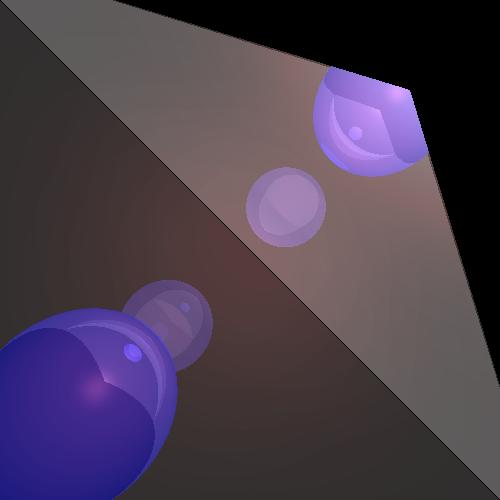
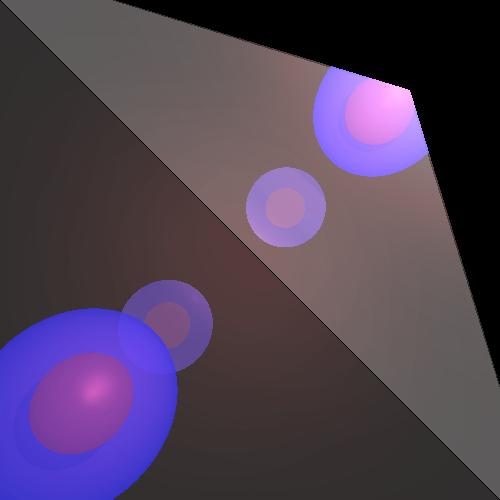
finaly rec work!

Changed region(s): [[0.0, 0.54, 0.45, 1.0], [0.63, 0.12, 0.87, 0.36], [0.48, 0.33, 0.66, 0.51]]

diff --git a/src/renderer/Render.java b/src/renderer/Render.java
@@ -257,7 +257,7 @@ public class Render implements Comparable<Render> {
         int refractedB = 0;
 
         if(geometry.get_material().get_Kt() != 0) {//for reduce useless checks
-            Ray refractedRay = constructReflectedRay(geometry.getNormal(point), point, inRay);
+            Ray refractedRay = constructRefractedRay(geometry.getNormal(point), point, inRay);
             Map<Geometry, Point3D> refractedEntry =  getClosestPoint(getSceneRayIntersections(refractedRay), refractedRay);
             if (!refractedEntry.isEmpty()) {
 
@@ -519,6 +519,7 @@ public class Render implements Comparable<Render> {
             return 1;
         }
 
+        //for refracted, check if all points is refcract
         for (Map.Entry<Geometry, List<Point3D>> entry : intersectionPoints.entrySet()) {
             if (entry.getKey().get_material().get_Kt() == 0){ return 0;}
 
@@ -572,6 +573,16 @@ public class Render implements Comparable<Render> {
         R.normalize();
         return new Ray(geometryPoint, R);
 */
+    }
+    private Ray constructRefractedRay(Vector normal, Point3D point, Ray inRay) {
+
+        Point3D geometryPoint = new Point3D(point);
+        Vector epsVector = new Vector(inRay.get_direction());
+        //epsVector.scale(0.00001);
+        geometryPoint.add(epsVector);
+        Vector newVector = new Vector(inRay.get_direction());
+        newVector.normalize();
+        return new Ray(geometryPoint, newVector);
     }
 
 }

diff --git a/Test/renderer/RenderTest_Rcorsive.java b/Test/renderer/RenderTest_Rcorsive.java
@@ -25,6 +25,7 @@ public class RenderTest_Rcorsive {
         sphere.set_nShininess(20);
         sphere.set_emmission(new Color(0, 0, 100));
         sphere.setKt(0.5);
+        //sphere.setKd(0.8);
         scene.addGeometry(sphere);
 
         Sphere sphere2 = new Sphere(250, new Point3D(0.0, 0.0, -1000));
